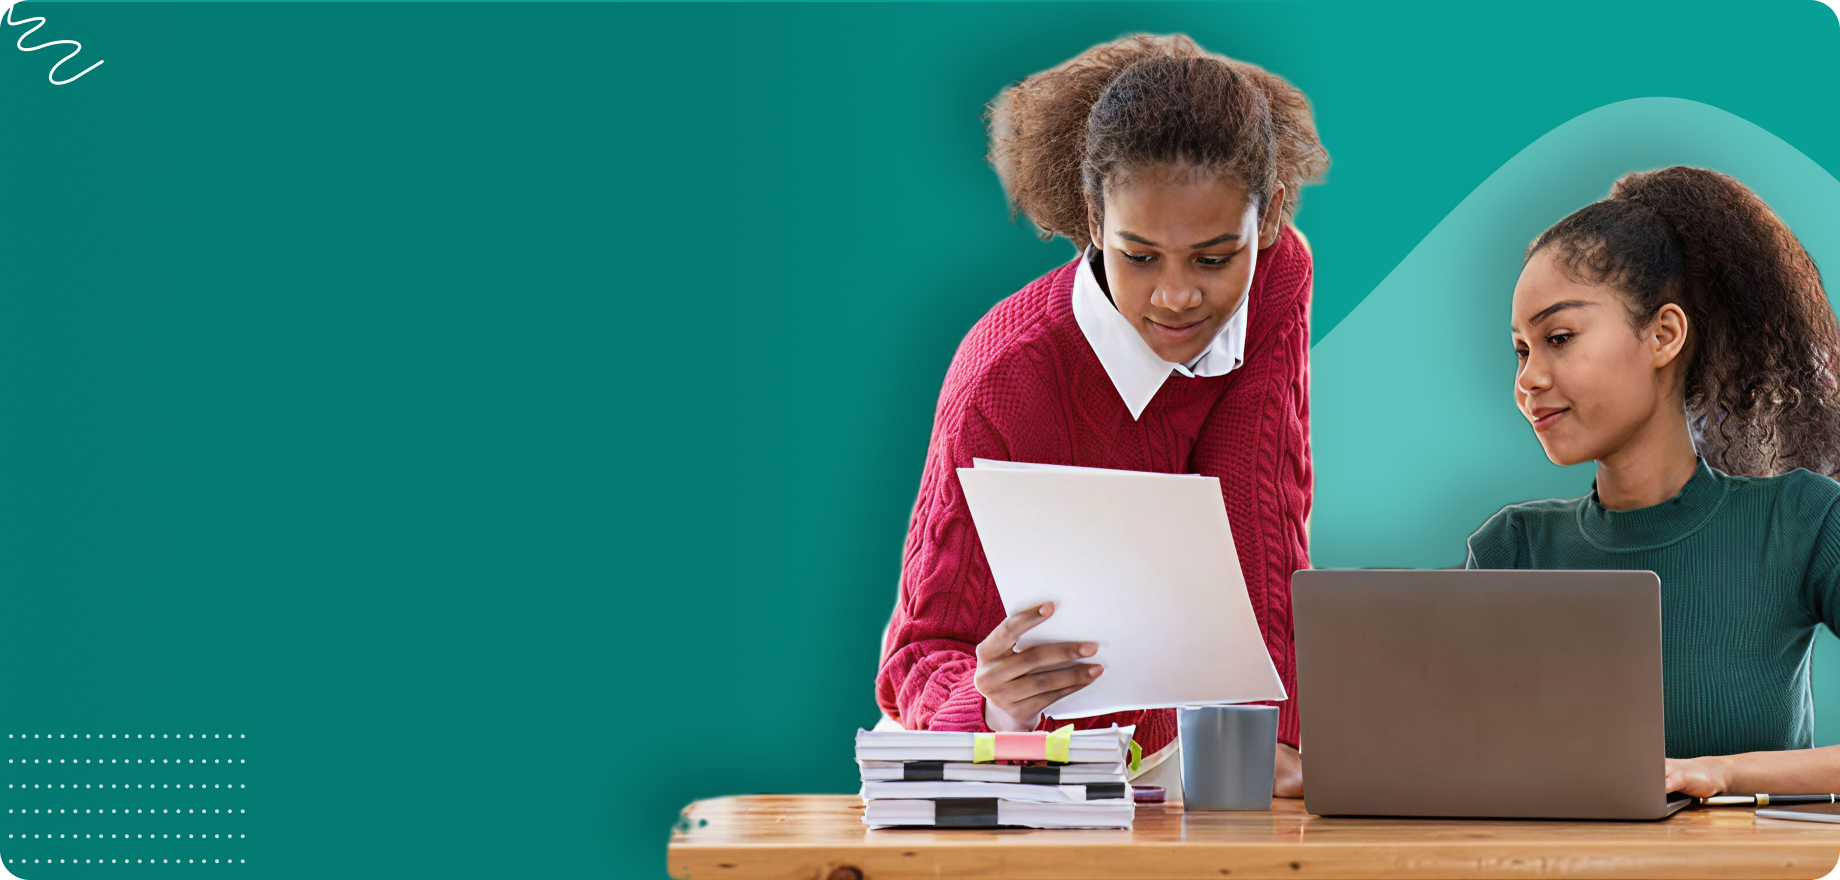
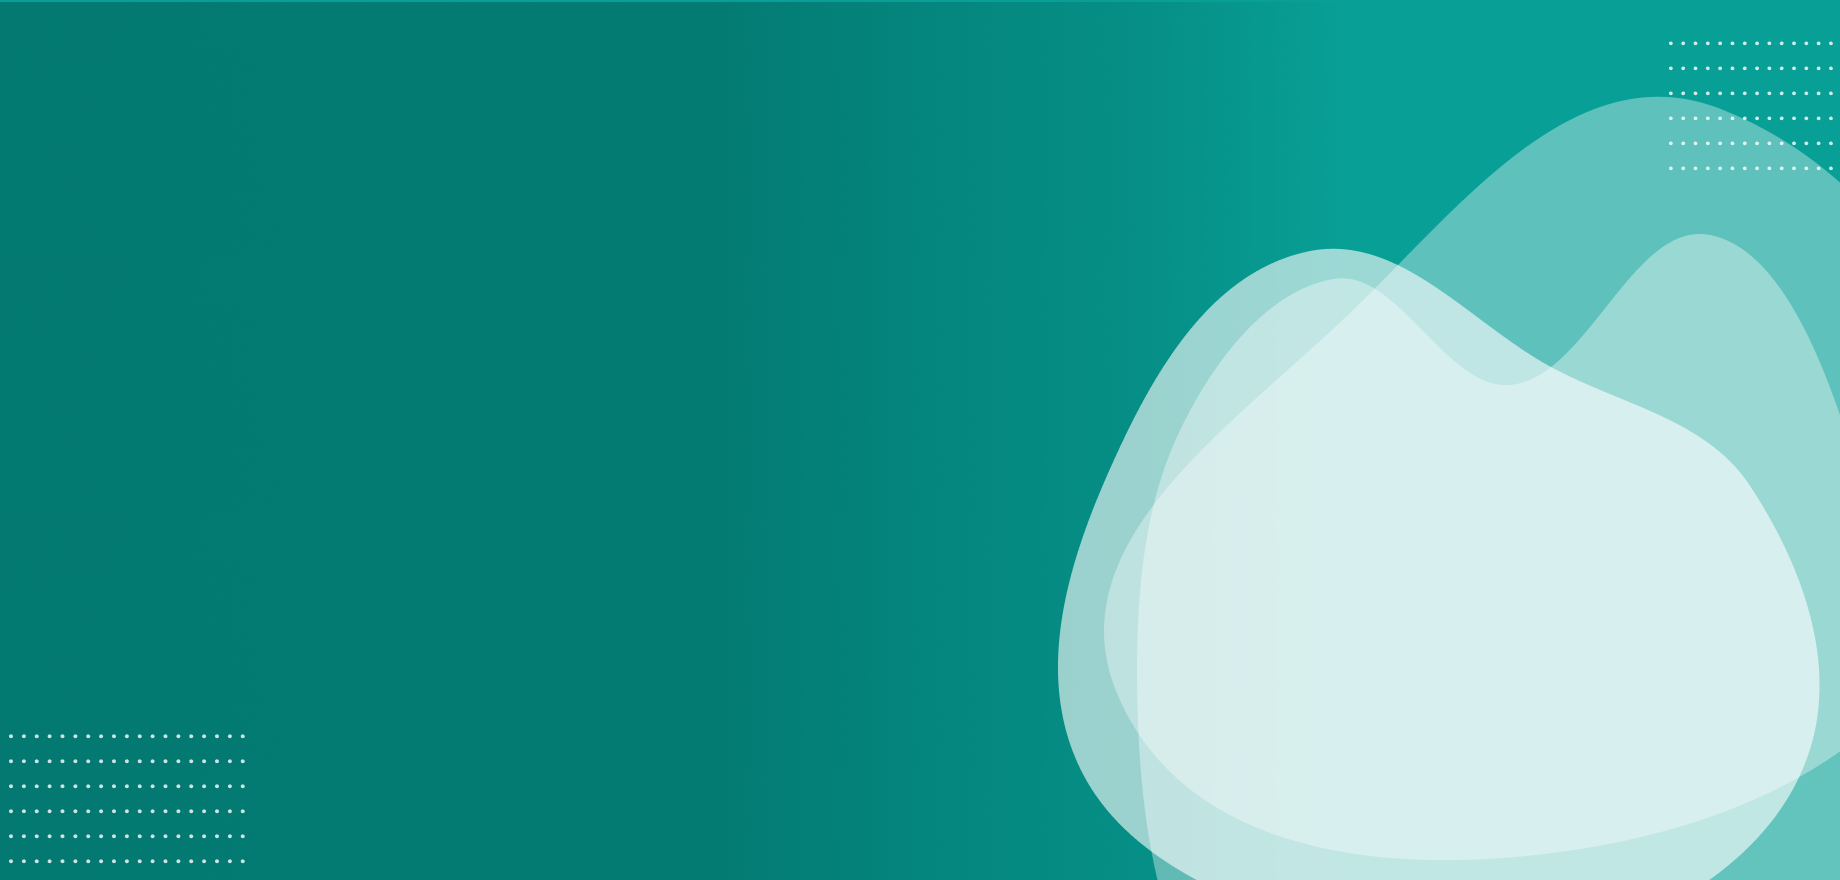
make section

diff --git a/index.html b/index.html
@@ -52,6 +52,7 @@
                             </div>
                         </div>
                         <div class="col-lg-6">
+                            <img src="assets/images/main-person.png" alt="Hero Image" class="img-fluid">
                         </div>
                     </div>
                 </div>
@@ -251,7 +252,7 @@
                     <div class="col-md-6 col-lg-3">
                         <div class="work-step text-center">
                             <div class="step-icon">
-                                <img src="assets/images/choose-mode.png" alt="Choose Mode">
+                                <img src="assets/images/step1.png" alt="Choose Mode">
                             </div>
                             <div class="step-number">01</div>
                             <h3>Choose Your Learning Mode</h3>
@@ -261,7 +262,7 @@
                     <div class="col-md-6 col-lg-3">
                         <div class="work-step text-center">
                             <div class="step-icon">
-                                <img src="assets/images/selection.png" alt="Make Selection">
+                                <img src="assets/images/step2.png" alt="Make Selection">
                                 
                             </div>
                             <span class="step-number">02</span>
@@ -272,7 +273,7 @@
                     <div class="col-md-6 col-lg-3">
                         <div class="work-step text-center">
                             <div class="step-icon">
-                                <img src="assets/images/purchase.png" alt="Confirm Purchase">
+                                <img src="assets/images/step3.png" alt="Confirm Purchase">
                                 
                             </div>
                             <span class="step-number">03</span>
@@ -283,7 +284,7 @@
                     <div class="col-md-6 col-lg-3">
                         <div class="work-step text-center">
                             <div class="step-icon">
-                                <img src="assets/images/learning.png" alt="Start Learning">
+                                <img src="assets/images/step4.png" alt="Start Learning">
                                 
                             </div>
                             <span class="step-number text-center">04</span>
@@ -294,6 +295,49 @@
                 </div>
                 <div class="text-center mt-4">
                     <button class="btn bg-green text-white">Get Started Today</button>
+                </div>
+            </div>
+        </section>
+        <!-- category section -->
+        <section class="category-section position-relative">
+            <img src="assets/images/whitedot.png" alt="dots" class="dots-left">
+            <img src="assets/images/whitedot.png" alt="dots" class="dots-right">
+            <div class="container">
+                <div class="row align-items-center">
+                    <div class="col-lg-5">
+                        <div class="category-content">
+                            <h2 class="section-title text-white"><span class="text-white">Category</span></h2>
+                            <p class="text-white mb-4">At E-Tutors City, we offer two
+                                flexible learning options:</p>
+                            <button class="btn bg-green text-white px-4 py-2">Get Started Today</button>
+                        </div>
+                    </div>
+                    <div class="col-lg-7">
+                        <div class="row mt-5 g-4">
+                            <div class="col-lg-6">
+                                <div class="category-card">
+                                    <img src="assets/images/catcard.png" alt="Private Classes" class="card-img">
+                                    <h3>Private Classes</h3>
+                                    <p>Get one-on-one tutoring tailored to your learning pace and goals. Our expert tutors provide personalized attention to ensure maximum academic success.</p>
+                                    <a href="#" class="learn-more">
+                                        Learn More
+                                        <img src="assets/images/arrowblack.svg" alt="arrow" class="arrow-icon2">
+                                    </a>
+                                </div>
+                            </div>
+                            <div class="col-lg-6">
+                                <div class="category-card">
+                                    <img src="assets/images/catcard2.png" alt="Group Classes" class="card-img">
+                                    <h3>Group Classes</h3>
+                                    <p>Join interactive group sessions where you can learn and collaborate with peers. Perfect for students who thrive in collaborative environments.</p>
+                                    <a href="#" class="learn-more">
+                                        Learn More
+                                        <img src="assets/images/arrowblack.svg" alt="arrow" class="arrow-icon2">
+                                    </a>
+                                </div>
+                            </div>
+                        </div>
+                    </div>
                 </div>
             </div>
         </section>

diff --git a/assets/css/category.css b/assets/css/category.css
@@ -1,0 +1,149 @@
+.category-section {
+    background-image: url(../images/category.png);
+    background-size: cover;
+    background-position: center;
+    background-repeat: no-repeat;
+    padding: 20px 0;
+    /* height: 570px;
+    position: relative;
+    overflow: hidden; */
+}
+
+/* Add these new styles for the dots */
+.dots-left {
+    position: absolute;
+    left: 0;
+    top: 16%;
+    transform: translateY(-50%);
+    width: 137px;
+    opacity: 0.5;
+    z-index: 0;
+}
+
+.dots-right {
+    position: absolute;
+    right: 0;
+    top: 15%;
+    width: 100px;
+    opacity: 0.5;
+    z-index: 0;
+}
+
+.category-content {
+    padding-right: 50px;
+    width: 277px;
+    margin: 0 auto;
+}
+
+.category-content p {
+    font-size: 16px;
+    line-height: 1.6;
+    margin-bottom: 30px;
+}
+
+.category-content .btn {
+    border-radius: 8px;
+    font-weight: 500;
+    padding: 12px 30px;
+}
+
+.category-cards {
+    max-width: 400px;
+}
+
+.category-card {
+    background: white;
+    border-radius: 20px;
+    padding: 0;
+    height: 100%;
+    transition: all 0.3s ease;
+    overflow: hidden;
+    position: relative;
+    z-index: 1;
+}
+
+.category-card:hover {
+    /* background: rgba(255, 255, 255, 0.2); */
+    transform: translateY(-5px);
+}
+
+.category-card .card-img {
+    width: 100%;
+    height: 200px;
+    object-fit: cover;
+    border-radius: 20px 20px 0 0;
+}
+
+.category-card h3 {
+    color: #000;
+    font-size: 20px;
+    font-weight: 600;
+    margin: 20px 20px 10px;
+    font-family: var(--font-heading);
+}
+
+.category-card p {
+    color: #666;
+    font-size: 14px;
+    line-height: 1.5;
+    margin: 0 20px 20px;
+    min-height: 63px;
+}
+
+.learn-more {
+    display: flex;
+    align-items: center;
+    justify-content: space-between;
+    color: #000;
+    text-decoration: none;
+    padding: 15px 20px;
+    border-top: 1px solid #eee;
+    font-weight: 500;
+}
+
+.learn-more:hover {
+    background-color: #f8f9fa;
+}
+
+.arrow-icon2 {
+    width: 20px;
+    height: 20px;
+}
+
+.category-image img {
+    max-width: 100%;
+    height: auto;
+}
+
+@media (max-width: 991px) {
+    .category-content {
+        padding-right: 0;
+        margin-bottom: 40px;
+        text-align: center;
+    }
+    
+    .category-cards {
+        max-width: 100%;
+    }
+    
+    .category-section {
+        padding: 60px 0;
+        height: auto;
+        background-size: cover;
+    }
+    
+    .category-card {
+        margin-bottom: 20px;
+    }
+    
+    .dots-left,
+    .dots-right {
+        display: none;
+    }
+}
+
+/* Update the container to ensure proper stacking */
+.category-section .container {
+    position: relative;
+    z-index: 1;
+} 

diff --git a/assets/css/become-tutor.css b/assets/css/become-tutor.css
@@ -118,11 +118,17 @@
     .become-tutor-content h2 {
         font-size: 2rem;
         margin-bottom: 1rem;
+        color: black !important;
     }
+    .become-tutor-content h2 span{
+        color:  black !important;
+    }
+
 
     .become-tutor-content p {
         font-size: 0.95rem;
         margin-bottom: 1.5rem;
+        color: black !important;
     }
 
     .become-tutor-image img {
@@ -141,10 +147,14 @@
 
     .become-tutor-content h2 {
         font-size: 1.75rem;
+        color: black !important;
     }
-
+    .become-tutor-content h2 span{
+        color:  black !important;
+    }
     .become-tutor-content p {
         font-size: 0.9rem;
+        color: black !important;
     }
 
     .apply-btn {

diff --git a/assets/css/how-it-works.css b/assets/css/how-it-works.css
@@ -11,18 +11,16 @@
 .step-icon {
     width: 120px;
     height: 120px;
-    background-color: #E8F5F3;
     border-radius: 50%;
     display: flex;
     align-items: center;
     justify-content: center;
-    margin: 0 auto 20px;
+    margin: 0 auto 0px;
     position: relative;
 }
 
 .step-icon img {
-    width: 50px;
-    height: 50px;
+    width: 108px;
     object-fit: contain;
 }
 
@@ -36,7 +34,7 @@
     align-items: center;
     justify-content: center;
     font-weight: bold;
-    font-size: 14px;
+    font-size: 22px;
 }
 
 .work-step h3 {

diff --git a/assets/css/style.css b/assets/css/style.css
@@ -9,6 +9,7 @@
 @import 'why-choose.css';
 @import 'become-tutor.css';
 @import 'how-it-works.css';
+@import 'category.css';
 
 :root {
     /* Primary Colors */
